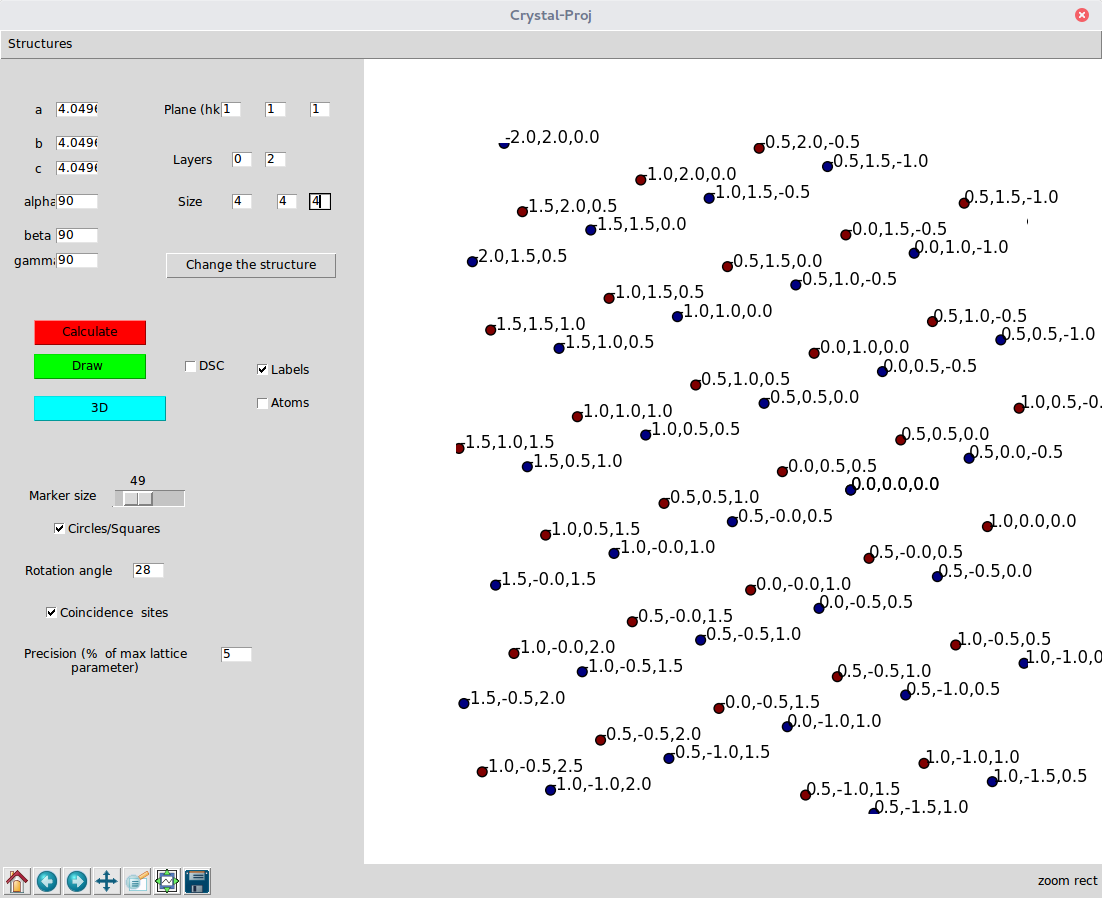
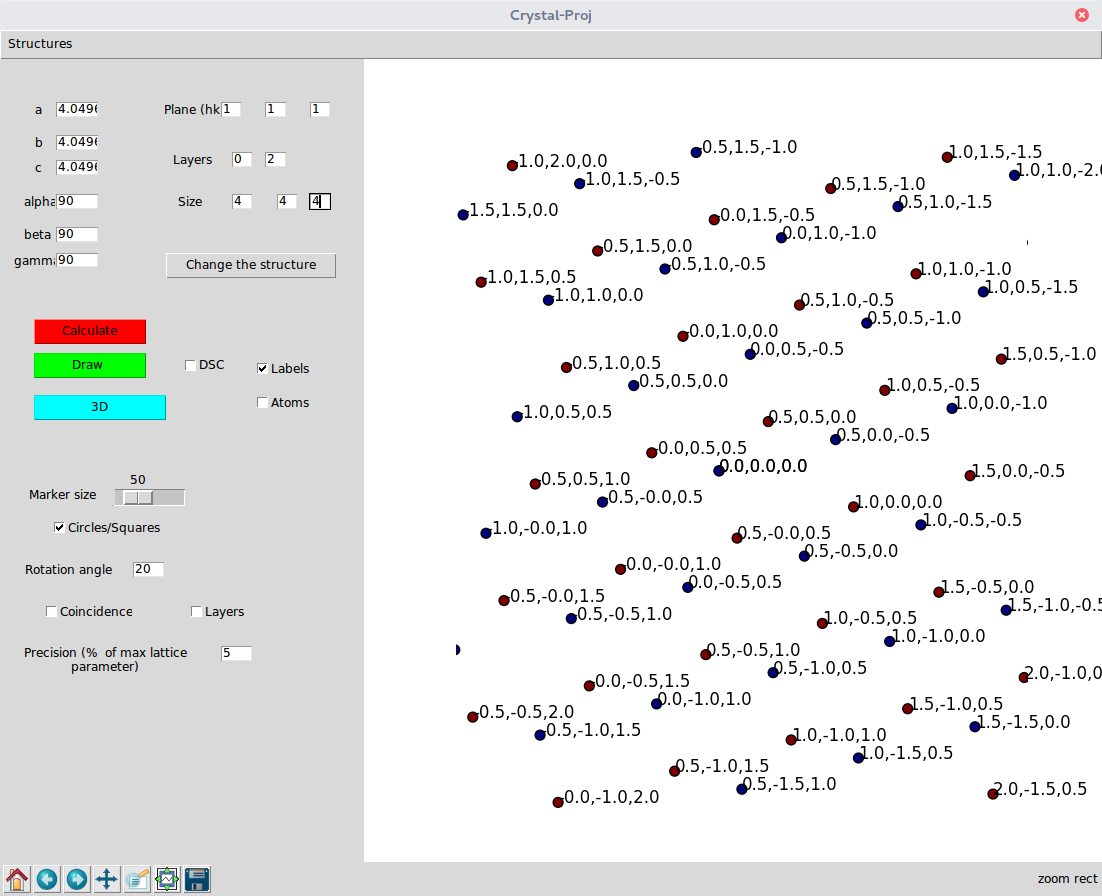
add layer numbers in dichro

diff --git a/cristal-proj.py b/cristal-proj.py
@@ -162,8 +162,12 @@ def trace():
 		
 		
 		M=unique(EL[:,3])
+		
+		Ma0=[]
+		Ma1=[]
+		Ma2=[]
 		Ma=[]
-		m=('o','s','^','*','h','+')
+		m=('o','s','^','*','h')
 		if coin.get()==1:
 			coi=np.array([0])
 			ep=0.01*eval(ep_entry.get())*np.max([eval(a_entry.get()),eval(b_entry.get()),eval(c_entry.get())])
@@ -175,17 +179,29 @@ def trace():
 		for t in range(0,np.shape(M)[0]):
 			for i in range(0,np.shape(EL[:,3])[0]):
 				if EL[i,3]==M[t]:
-					Ma.append(m[t])
+					
+					if t>np.size(m)-1:
+						Ma0.append('o')
+						Ma1.append('o')
+						
+					else:
+						Ma0.append(m[t])
+						Ma1.append(m[t])
+					if couche.get()==1:
+						Ma2.append(str(t))
 		else:
 			Ma.append('D')
 
 		
 		for y in range(0,np.shape(EL[:,3])[0]):
-			fi.scatter(ELr[y,0],ELr[y,1],s=sim, marker=Ma[y],color='white',edgecolor='black')
-			fi.scatter(EL[y,0],EL[y,1],s=sim,marker=Ma[y], color='black',edgecolor='black' )
+			fi.scatter(ELr[y,0],ELr[y,1],s=sim, marker=Ma0[y],color='white',edgecolor='black')
+			fi.scatter(EL[y,0],EL[y,1],s=sim,marker=Ma1[y], color='black',edgecolor='black' )
+			if couche.get()==1:
+				fi.text(EL[y,0],EL[y,1],Ma2[y])
+				fi.text(ELr[y,0],ELr[y,1],Ma2[y])
 		if coin.get()==1:
 			for z in coi:
-				fi.scatter(EL[z,0],EL[z,1],s=sim*1.5,marker=Ma[z], color='blue',edgecolor='black' )
+				fi.scatter(EL[z,0],EL[z,1],s=sim*1.5,marker=Ma0[z], color='blue',edgecolor='black' )
 			
         
         
@@ -427,7 +443,7 @@ default = style.lookup(theme, 'background')
 root.configure(background=default)
 
 def init():
-    global varname, lab, ato, rond,zoom,taille, dsc_cond,coin
+    global varname, lab, ato, rond,zoom,taille, dsc_cond,coin,couche
     varname=0
     lab=IntVar()
     ato=IntVar()
@@ -436,6 +452,7 @@ def init():
     taille=IntVar()
     dsc_cond=IntVar()
     coin=IntVar()
+    couche=IntVar()
     
 init()  
 
@@ -634,7 +651,11 @@ ep_entry = Entry (master=root)
 ep_entry.place(relx=0.2,rely=0.70,relheight=0.02 ,relwidth=0.03)
 ep_entry.configure(selectbackground="#c4c4c4")
 
-
+couche_check = Checkbutton (master=root)
+couche_check.place(relx=0.12,rely=0.65,relheight=0.02,relwidth=0.15)
+couche_check.configure(activebackground="#f9f9f9")
+couche_check.configure(text='''Layers''')
+couche_check.configure(variable=couche)
 
 menu = Menu(master=root)
 root.config(menu=menu)

diff --git a/README.md b/README.md
@@ -56,3 +56,6 @@ with atomn is nth atom in the cell at coordinate xn, yn, zn and vkx,vky,vkz is t
 
 * Tick the "Coincidence sites" button to draw coincident site positions. The precision by which is defined coincidence  can be tuned. It is expressed in % of the largest lattice parameter.
 
+![img5](/img5.png?raw=true)
+
+* Tick the "Layers" button to show the layer number on the dichromatic pattern. From layers '0' to '5', markers are circles, squares, triangles, stars and hexagons, respectively. After they are all circles. 
